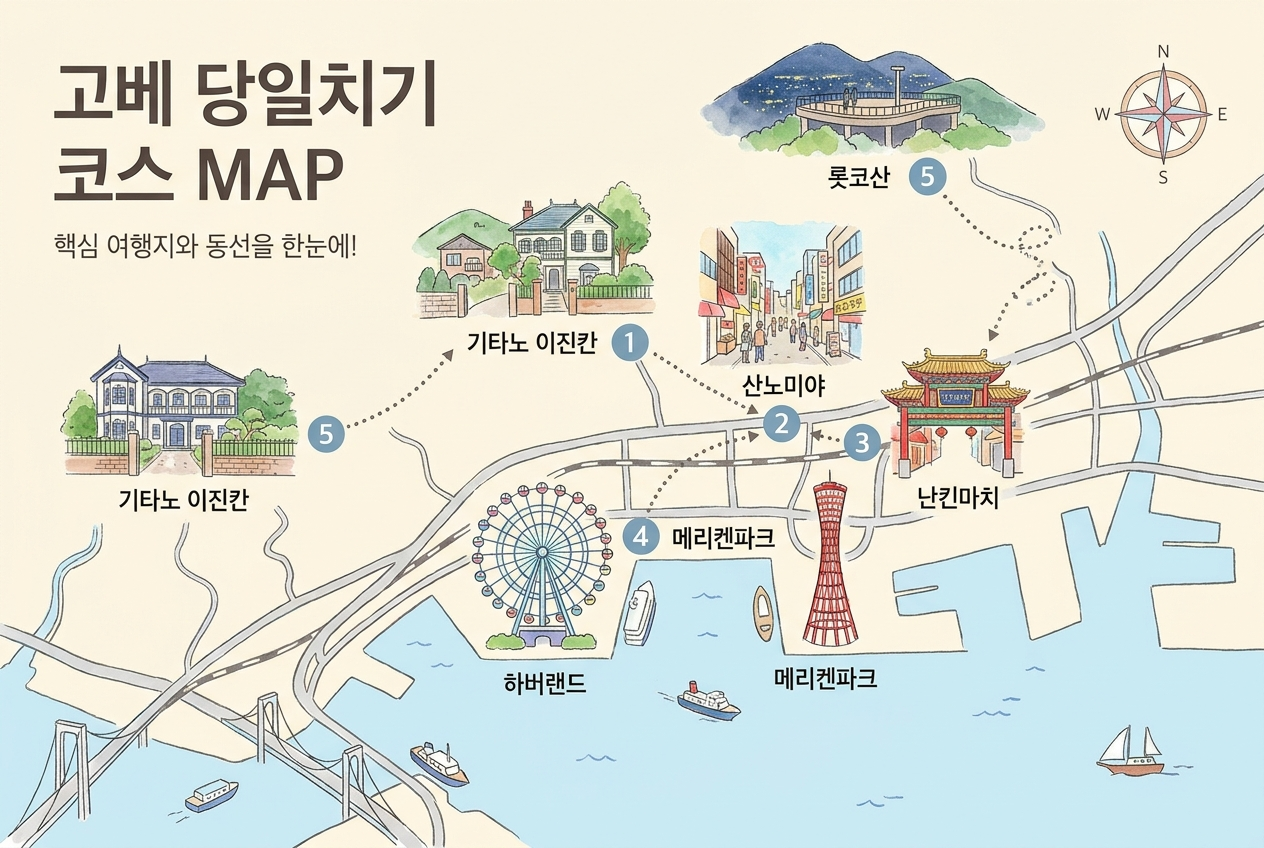
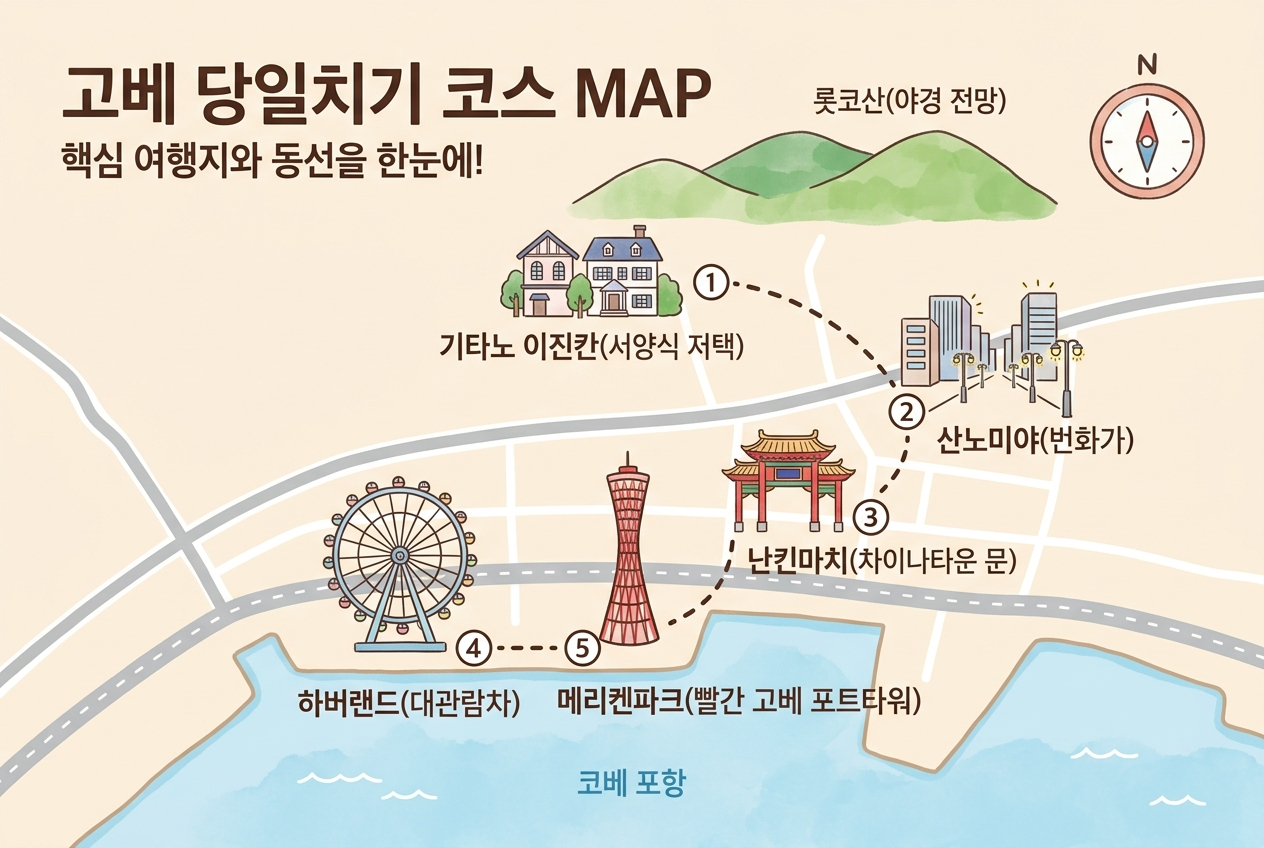
style: 코스 일러스트 지도 4종 Nano Banana 2(gemini-3.1-flash-image) 스타일로 통일
- 오사카·교토·고베·나라 코스맵 재생성(더 아기자기·디테일), 한글 라벨 정확
- gen-map.js 기본 모델을 gemini-3.1-flash-image로, 프롬프트 파일 보관(mapprompts/)

diff --git a/scripts/pseo/list-models.js b/scripts/pseo/list-models.js
@@ -5,9 +5,10 @@ const KEY = process.env.GEMINI_API_KEY
   const d = await r.json()
   if (d.error) { console.log('ERR', JSON.stringify(d.error).slice(0, 200)); return }
   const models = d.models || []
+  const isImg = m => /image|imagen/i.test(m.name)
   console.log('총 모델:', models.length)
-  console.log('=== 이미지 관련 모델 ===')
-  models.filter(m => /image|imagen|nano|3-pro/i.test(m.name)).forEach(m => {
-    console.log(m.name.replace('models/', ''), '|', m.displayName || '', '|', (m.supportedGenerationMethods || []).join(','))
-  })
+  console.log('\n=== [이미지 생성 모델] (이게 지도용) ===')
+  models.filter(isImg).forEach(m => console.log('  ' + m.name.replace('models/', '').padEnd(34), '|', m.displayName || ''))
+  console.log('\n=== [텍스트/기타 모델 — 이미지 생성 불가] 이름에 버전만 발췌 ===')
+  models.filter(m => !isImg(m)).forEach(m => console.log('  ' + m.name.replace('models/', '').padEnd(34), '|', m.displayName || ''))
 })()

diff --git a/scripts/pseo/gen-map.js b/scripts/pseo/gen-map.js
@@ -8,10 +8,11 @@ const fs = require('fs')
 const KEY = process.env.GEMINI_API_KEY
 const promptFile = process.argv[2]
 const outFile = process.argv[3]
-const MODELS = [
-  'gemini-3-pro-image',        // Nano Banana Pro (최신·텍스트 정확)
-  'gemini-3.1-flash-image',    // Nano Banana 2
-  'gemini-2.5-flash-image',    // 폴백
+const forceModel = process.argv[4] // 선택: 특정 모델 강제
+const MODELS = forceModel ? [forceModel] : [
+  'gemini-3.1-flash-image',    // Nano Banana 2 (기본 — 아기자기·디테일, 한글 정확)
+  'gemini-3-pro-image',        // Nano Banana Pro (폴백)
+  'gemini-2.5-flash-image',    // 폴백2
 ]
 ;(async () => {
   if (!KEY) { console.error('GEMINI_API_KEY 없음'); process.exit(1) }
